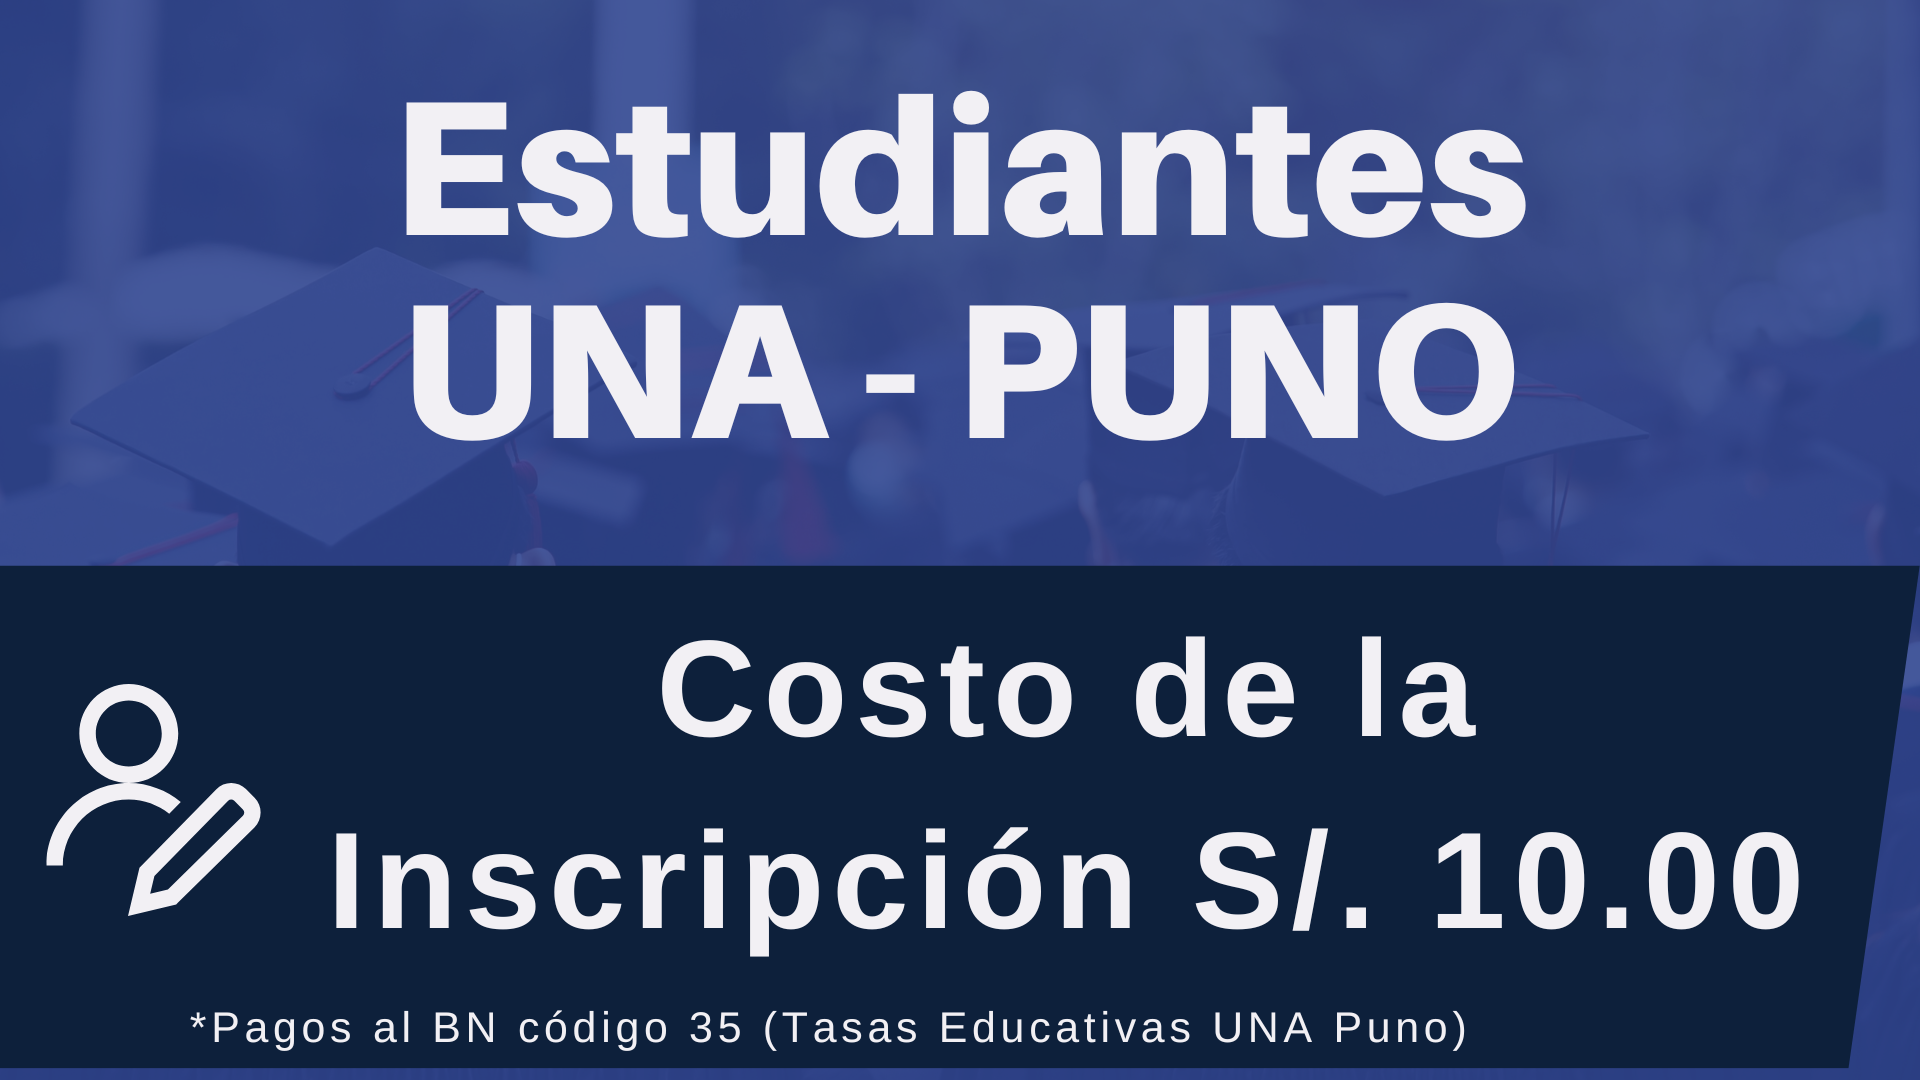
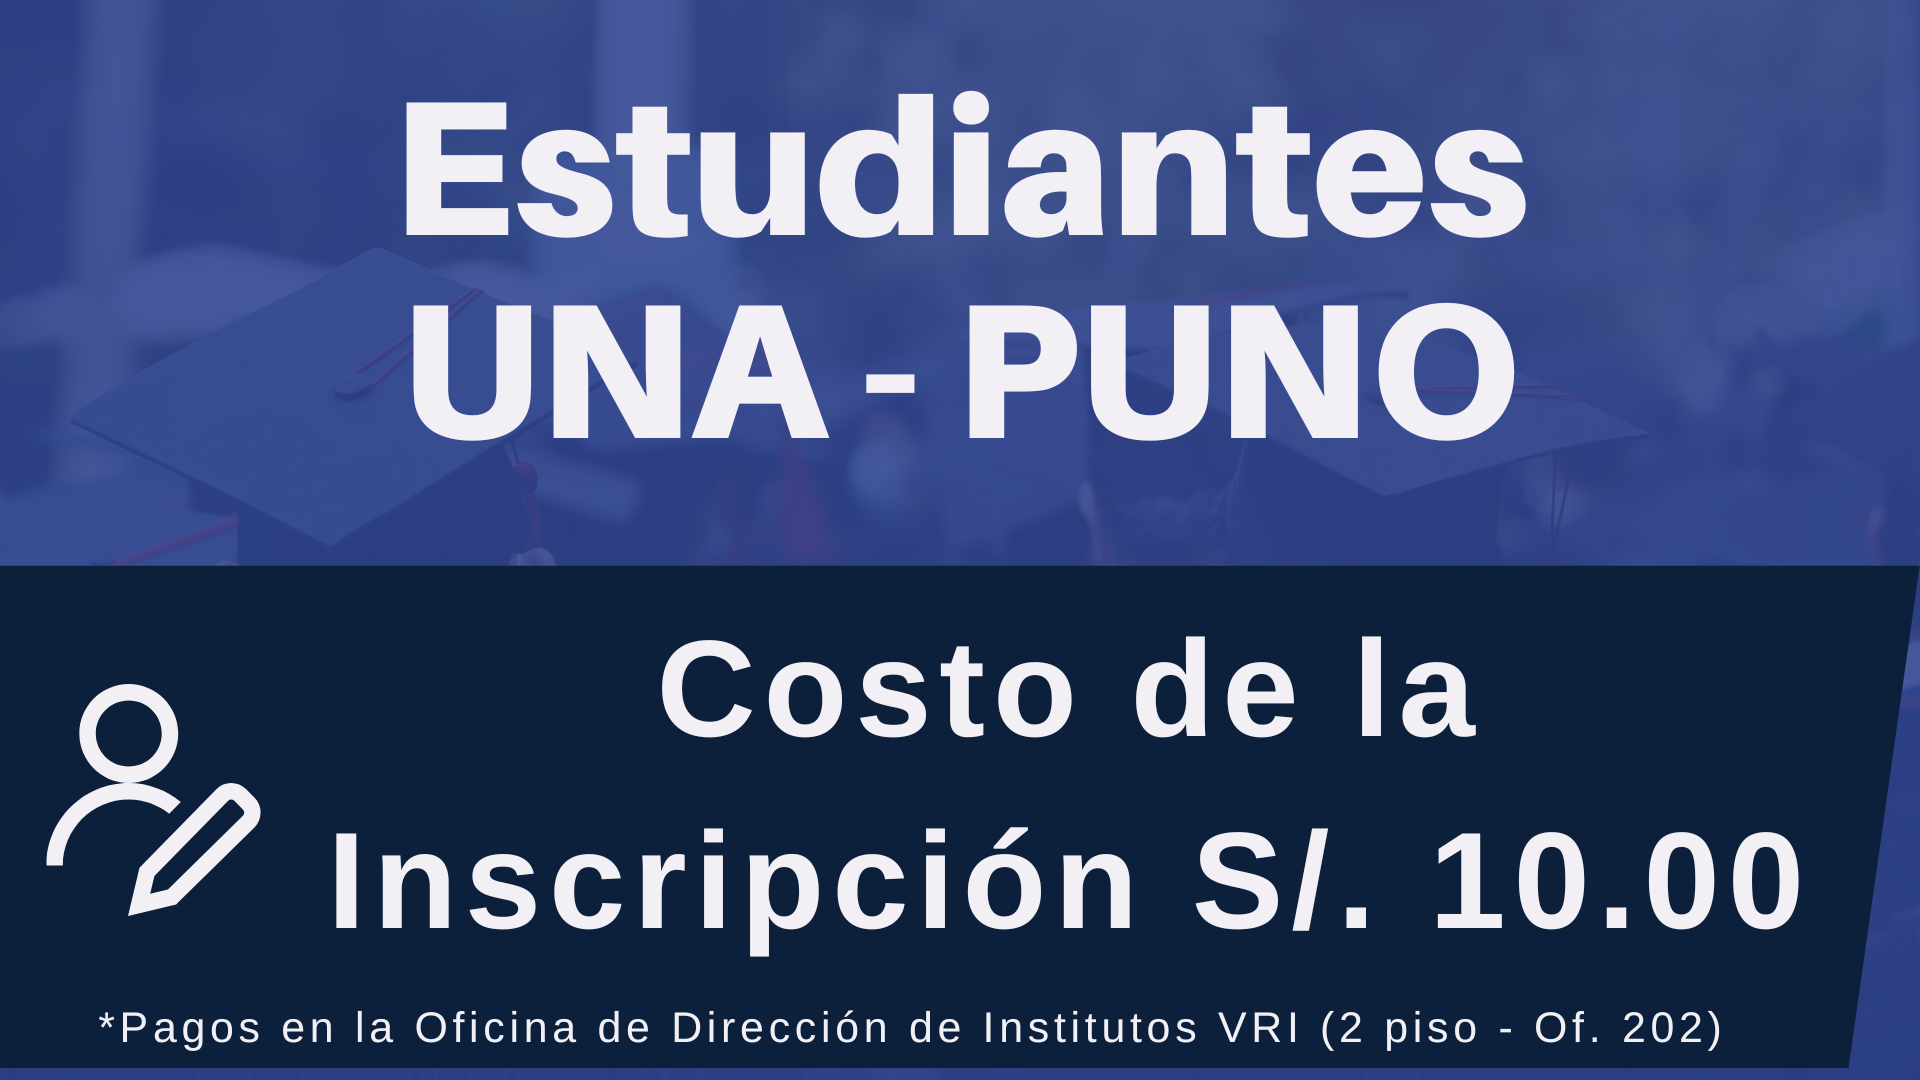
denisxd

Changed region(s): [[0.0625, 0.9167, 0.8125, 0.9778], [0.8438, 0.9167, 0.9062, 0.9778]]

diff --git a/index.html b/index.html
@@ -275,29 +275,6 @@
               </div>
           </div>
       </div>
-      <!-- Imágenes -->
-      <!-- <div class="row row-30 justify-content-center">
-          <div class="col-sm-6 col-md-5 col-lg-6 col-xl-3 wow fadeInLeft">
-              <a class="clients-classic" href="link inscripciones">
-                  <img src="imagenes/Congreso/estudiantes.png" alt="" width="270" height="117"/>
-              </a>
-          </div>
-          <div class="col-sm-6 col-md-5 col-lg-6 col-xl-3 wow fadeInLeft" data-wow-delay=".1s">
-              <a class="clients-classic" href="link inscripciones">
-                  <img src="imagenes/Congreso/docentes.png" alt="" width="270" height="117"/>
-              </a>
-          </div>
-          <div class="col-sm-6 col-md-5 col-lg-6 col-xl-3 wow fadeInLeft" data-wow-delay=".2s">
-              <a class="clients-classic" href="link insri">
-                  <img src="imagenes/Congreso/estudiantes_externos.png" alt="" width="270" height="117"/>
-              </a>
-          </div>
-          <div class="col-sm-6 col-md-5 col-lg-6 col-xl-3 wow fadeInLeft" data-wow-delay=".3s">
-              <a class="clients-classic" href="#">
-                  <img src="imagenes/Congreso/docentes_externos.png" alt="" width="270" height="117"/>
-              </a>
-          </div>
-      </div> -->
       <div class="row row-30 justify-content-center">
         <!-- Primer imagen/elemento -->
         <div class="col-sm-6 col-md-5 col-lg-6 col-xl-3 wow fadeInLeft">
@@ -337,9 +314,11 @@
                     <span aria-hidden="true">&times;</span>
                 </button>
             </div>
-            <div class="modal-body">
-                Aquí coloca el contenido xdxd Lorem ipsum dolor sit amet consectetur adipisicing elit. Molestiae ducimus enim hic dolorum, nostrum voluptatem voluptatibus voluptates laboriosam tenetur ullam magnam deleniti eius labore eligendi minima at. Veritatis quas temporibus voluptas? Voluptatibus delectus, provident aperiam adipisci nobis et est corrupti aut ipsam dolorum aliquam architecto neque ea labore, incidunt magnam deleniti possimus a. Eaque voluptatibus consectetur animi enim omnis vel explicabo velit deserunt labore. Dicta id eos quidem et, dolorem omnis est reprehenderit alias laboriosam inventore expedita quos voluptatum, quaerat vel fugit officiis totam. Labore voluptate quas maxime nobis officia accusantium voluptatibus, dolore quis, delectus a aliquid eligendi. Ut, corrupti.
-            </div>
+            <div class="modal-body" style="text-align: justify;">
+              El pago se realizará en el Banco de la Nación con el Código 35 (Tasas Educativas) indicando el nombre del Evento “I Congreso Internacional de Investigación en Homenaje al Dr. Julio Mayta Quispe” 
+              o de manera directa en las Oficinas de Vicerrectorado  de Investigación (2do piso - Oficina 202).
+          </div>
+          
         </div>
       </div>
     </div>
@@ -354,9 +333,10 @@
                     <span aria-hidden="true">&times;</span>
                 </button>
             </div>
-            <div class="modal-body">
-                Aquí coloca el contenido xdxd Lorem ipsum dolor sit amet consectetur adipisicing elit. Molestiae ducimus enim hic dolorum, nostrum voluptatem voluptatibus voluptates laboriosam tenetur ullam magnam deleniti eius labore eligendi minima at. Veritatis quas temporibus voluptas? Voluptatibus delectus, provident aperiam adipisci nobis et est corrupti aut ipsam dolorum aliquam architecto neque ea labore, incidunt magnam deleniti possimus a. Eaque voluptatibus consectetur animi enim omnis vel explicabo velit deserunt labore. Dicta id eos quidem et, dolorem omnis est reprehenderit alias laboriosam inventore expedita quos voluptatum, quaerat vel fugit officiis totam. Labore voluptate quas maxime nobis officia accusantium voluptatibus, dolore quis, delectus a aliquid eligendi. Ut, corrupti.
-            </div>
+            <div class="modal-body" style="text-align: justify;">
+              El pago se realizará en el Banco de la Nación con el Código 35 (Tasas Educativas) indicando el nombre del Evento “I Congreso Internacional de Investigación en Homenaje al Dr. Julio Mayta Quispe” 
+              o de manera directa en las Oficinas de Vicerrectorado  de Investigación (2do piso - Oficina 202).
+          </div>
         </div>
       </div>
     </div>
@@ -371,9 +351,10 @@
                     <span aria-hidden="true">&times;</span>
                 </button>
             </div>
-            <div class="modal-body">
-                Aquí coloca el contenido xdxd Lorem ipsum dolor sit amet consectetur adipisicing elit. Molestiae ducimus enim hic dolorum, nostrum voluptatem voluptatibus voluptates laboriosam tenetur ullam magnam deleniti eius labore eligendi minima at. Veritatis quas temporibus voluptas? Voluptatibus delectus, provident aperiam adipisci nobis et est corrupti aut ipsam dolorum aliquam architecto neque ea labore, incidunt magnam deleniti possimus a. Eaque voluptatibus consectetur animi enim omnis vel explicabo velit deserunt labore. Dicta id eos quidem et, dolorem omnis est reprehenderit alias laboriosam inventore expedita quos voluptatum, quaerat vel fugit officiis totam. Labore voluptate quas maxime nobis officia accusantium voluptatibus, dolore quis, delectus a aliquid eligendi. Ut, corrupti.
-            </div>
+            <div class="modal-body" style="text-align: justify;">
+              El pago se realizará en el Banco de la Nación con el Código 35 (Tasas Educativas) indicando el nombre del Evento “I Congreso Internacional de Investigación en Homenaje al Dr. Julio Mayta Quispe” 
+              o de manera directa en las Oficinas de Vicerrectorado  de Investigación (2do piso - Oficina 202).
+          </div>
         </div>
       </div>
     </div>
@@ -388,9 +369,10 @@
                     <span aria-hidden="true">&times;</span>
                 </button>
             </div>
-            <div class="modal-body">
-                Aquí coloca el contenido xdxd Lorem ipsum dolor sit amet consectetur adipisicing elit. Molestiae ducimus enim hic dolorum, nostrum voluptatem voluptatibus voluptates laboriosam tenetur ullam magnam deleniti eius labore eligendi minima at. Veritatis quas temporibus voluptas? Voluptatibus delectus, provident aperiam adipisci nobis et est corrupti aut ipsam dolorum aliquam architecto neque ea labore, incidunt magnam deleniti possimus a. Eaque voluptatibus consectetur animi enim omnis vel explicabo velit deserunt labore. Dicta id eos quidem et, dolorem omnis est reprehenderit alias laboriosam inventore expedita quos voluptatum, quaerat vel fugit officiis totam. Labore voluptate quas maxime nobis officia accusantium voluptatibus, dolore quis, delectus a aliquid eligendi. Ut, corrupti.
-            </div>
+            <div class="modal-body" style="text-align: justify;">
+              El pago se realizará en el Banco de la Nación con el Código 35 (Tasas Educativas) indicando el nombre del Evento “I Congreso Internacional de Investigación en Homenaje al Dr. Julio Mayta Quispe” 
+              o de manera directa en las Oficinas de Vicerrectorado  de Investigación (2do piso - Oficina 202).
+          </div>
         </div>
       </div>
     </div>
